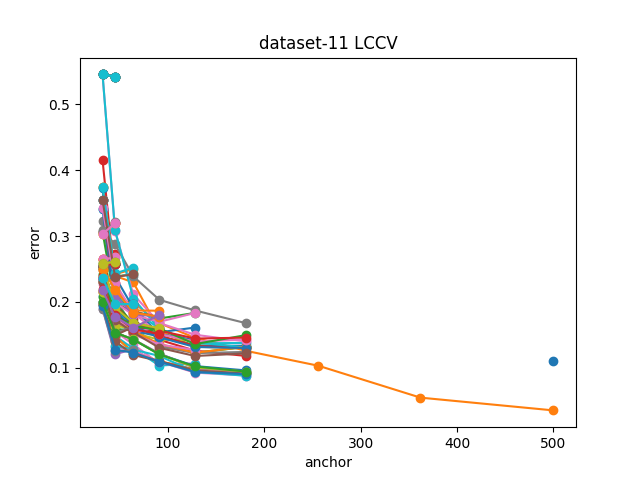
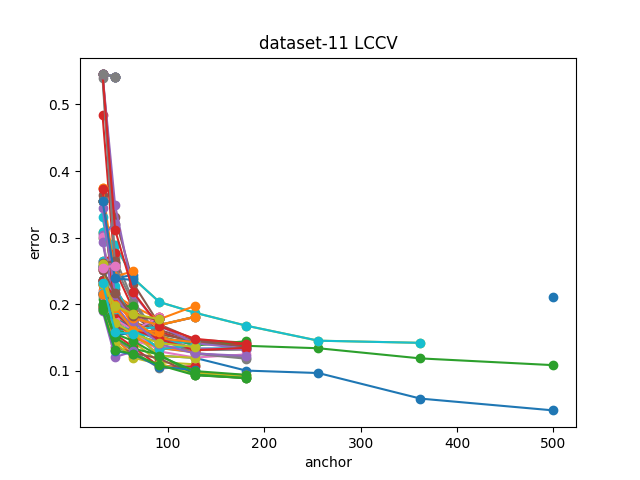
everything is in good shape!

diff --git a/run_experiment.py b/run_experiment.py
@@ -18,7 +18,7 @@ def parse_args():
 
     return parser.parse_args()
 
-def count_evalutions(eval_dict):
+def count_evalutions_linear(eval_dict):
     ''' Calculate total number of evaluations weighted by anchor size.
     
     param: eval_dict (dict): Dictionary mapping anchor sizes to number of evaluations
@@ -29,6 +29,30 @@ def count_evalutions(eval_dict):
     evaluations = 0
     for anchor,evals in eval_dict.items():
         evaluations+=anchor*evals
+    return evaluations
+
+def count_evaluations_log(eval_dict):
+    ''' Calculate total number of evaluations weighted by log(anchor size).
+    
+    param: eval_dict (dict): Dictionary mapping anchor sizes to number of evaluations
+    
+    return: int: Total weighted number of evaluations
+    '''
+    evaluations = 0
+    for anchor,evals in eval_dict.items():
+        evaluations+=np.log(anchor)*evals
+    return evaluations
+
+def count_evaluations_square(eval_dict):
+    ''' Calculate total number of evaluations weighted by square root of anchor size.
+    
+    param: eval_dict (dict): Dictionary mapping anchor sizes to number of evaluations
+    
+    return: int: Total weighted number of evaluations
+    '''
+    evaluations = 0
+    for anchor,evals in eval_dict.items():
+        evaluations += anchor**2 * evals
     return evaluations
 
 def experiment(vertical_eval,iterations,config_space,name):
@@ -60,8 +84,10 @@ def experiment(vertical_eval,iterations,config_space,name):
     plt.xlabel('anchor')
     plt.savefig(f'{name}_{vertical_eval.method}_{iterations}.png')
     plt.close()
-    evalutations = count_evalutions(evaluations_dict)
-    return evalutations,best_so_far
+    evalutations_linear = count_evalutions_linear(evaluations_dict)
+    evalutations_log = count_evaluations_log(evaluations_dict)
+    evalutations_square = count_evaluations_square(evaluations_dict)
+    return evalutations_linear, evalutations_log, evalutations_square, best_so_far
 
 
 def run(config_space,data_file,nr_iterations,nr_experiments,min_anchor):
@@ -77,30 +103,50 @@ def run(config_space,data_file,nr_iterations,nr_experiments,min_anchor):
 
     # LCCV
     vertical_eval = LCCV(surrogate_model, anchors)
-    lccv_eval = []
+    lccv_eval_linear = []
+    lccv_eval_log = []
+    lccv_eval_square = []
     lccv_best = []
     for _ in range(nr_experiments):
-        evalutations,best_score = experiment(vertical_eval,nr_iterations,config_space,name)
-        lccv_eval.append(evalutations)
+        evalutations_linear, evalutations_log, evalutations_square,best_score = experiment(vertical_eval,nr_iterations,config_space,name)
+        lccv_eval_linear.append(evalutations_linear)
+        lccv_eval_log.append(evalutations_log)
+        lccv_eval_square.append(evalutations_square)
         lccv_best.append(best_score)
     print('LCCV done')
     # IPL
-    ipl_eval = []
+    ipl_eval_linear = []
+    ipl_eval_log = []
+    ipl_eval_square = []
     ipl_best = []
     vertical_eval = IPL(surrogate_model, anchors)
     for i in range(nr_experiments):
-        evalutations,best_score = experiment(vertical_eval,nr_iterations,config_space,name)
-        ipl_eval.append(evalutations)
+        evalutations_linear, evalutations_log, evalutations_square,best_score = experiment(vertical_eval,nr_iterations,config_space,name)
+        ipl_eval_linear.append(evalutations_linear)
+        ipl_eval_log.append(evalutations_log)
+        ipl_eval_square.append(evalutations_square)
         ipl_best.append(best_score)
     print('IPL done')
     
+    # ratio of lccv to ipl: lccv/ipl
+    ratio_linear = ((1/np.array(lccv_best))/np.array(lccv_eval_linear))/((1/np.array(ipl_best))/np.array(ipl_eval_linear))
+    ratio_log = ((1/np.array(lccv_best))/np.array(lccv_eval_log))/((1/np.array(ipl_best))/np.array(ipl_eval_log))
+    ratio_square = ((1/np.array(lccv_best))/np.array(lccv_eval_square))/((1/np.array(ipl_best))/np.array(ipl_eval_square))
     # Gather results
-    lccv_eval = np.array(lccv_eval)/anchors[-1]
-    ipl_eval = np.array(ipl_eval)/anchors[-1]
+    # lccv_eval = np.array(lccv_eval)/anchors[-1]
+    # ipl_eval = np.array(ipl_eval)/anchors[-1]
     return {('LCCV','score'):f'{np.mean(lccv_best):.2f} std {np.std(lccv_best):.3f}',
-            ('LCCV','evaluations'):f'{np.mean(lccv_eval):.2f} std {np.std(lccv_eval):.3f}',
+            ('LCCV','evalutations_linear'):f'{np.mean(lccv_eval_linear):.2f} std {np.std(lccv_eval_linear):.3f}',
+            ('LCCV','evalutations_log'):f'{np.mean(lccv_eval_log):.2f} std {np.std(lccv_eval_log):.3f}',
+            ('LCCV','evalutations_square'):f'{np.mean(lccv_eval_square):.2f} std {np.std(lccv_eval_square):.3f}',
             ('IPL','score'):f' {np.mean(ipl_best):.2f} std {np.std(ipl_best):.3f}',
-            ('IPL','evaluations'):f'{np.mean(ipl_eval):.2f} std {np.std(ipl_eval):.3f}'}   
+            ('IPL','evalutations_linear'):f'{np.mean(ipl_eval_linear):.2f} std {np.std(ipl_eval_linear):.3f}',
+            ('IPL','evalutations_log'):f'{np.mean(ipl_eval_log):.2f} std {np.std(ipl_eval_log):.3f}',
+            ('IPL','evalutations_square'):f'{np.mean(ipl_eval_square):.2f} std {np.std(ipl_eval_square):.3f}',
+            ('ratio','evalutations_linear'):f'{np.mean(ratio_linear):.2f} std {np.std(ratio_linear):.3f}',
+            ('ratio','evalutations_log'):f'{np.mean(ratio_log):.2f} std {np.std(ratio_log):.3f}',
+            ('ratio','evalutations_square'):f'{np.mean(ratio_square):.2f} std {np.std(ratio_square):.3f}'
+            }
 
 
 if __name__ == '__main__':
@@ -112,13 +158,13 @@ if __name__ == '__main__':
                   'config_performances_dataset-11.csv',
                   'config_performances_dataset-1457.csv']
     nr_iterations = 100
-    nr_experiments = 20
+    nr_experiments = 10
     data_file_names = [data_file.split('_')[-1][:-4] for data_file in data_files]
     min_anchor = {'dataset-6':16,
                   'dataset-11':32,
                   'dataset-1457':128}
-    tuples = [(a,b) for a,b in product(['LCCV','IPL'],['score','evaluations'])]
-    index = pd.MultiIndex.from_tuples(tuples,names=['method','score'])
+    tuples = [(a,b) for a,b in product(['LCCV','IPL','ratio'],['score','evalutations_linear','evalutations_log','evalutations_square'])]
+    index = pd.MultiIndex.from_tuples(tuples,names=['method','metric'])
     columns = data_file_names
     result_df = pd.DataFrame(columns=columns ,index=index)
 
@@ -126,5 +172,15 @@ if __name__ == '__main__':
         print(name)
         result = run(config_space,data_file,nr_iterations,nr_experiments,min_anchor[name])
         result_df[name] = result 
-        result_df.to_csv('comparison_results.csv')
+        result_df.to_csv('comparison_results_with_ratio.csv')
 
+    def format_results_as_table(result_df):
+        """
+        Format the result DataFrame into a clean, tabular format using the `tabulate` library.
+        """
+        formatted_table = tabulate(result_df, headers='keys', tablefmt='grid', showindex="always")
+        return formatted_table
+    from tabulate import tabulate
+    formatted_table = format_results_as_table(result_df)
+    with open('formatted_comparison_results_with_ratio.txt', 'w') as f:
+        f.write(formatted_table)
